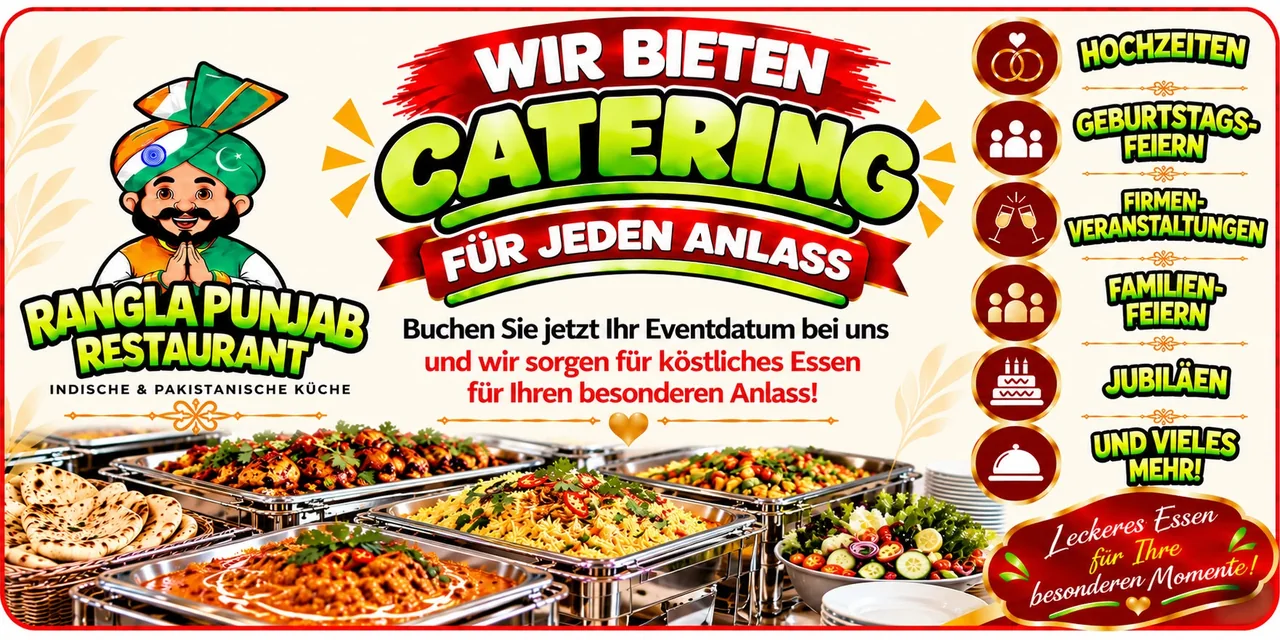
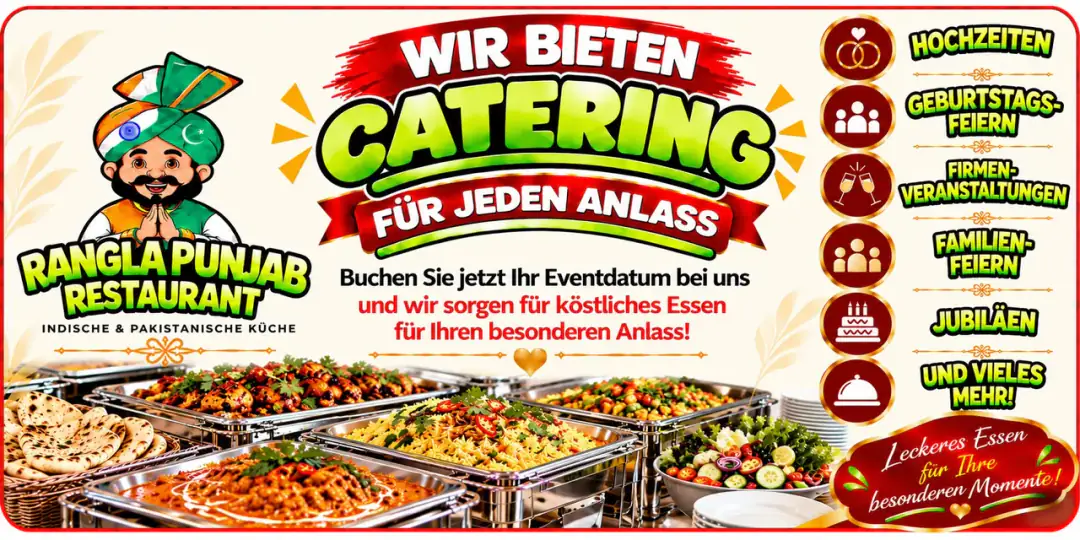
perf: lighter slider posters and small dish thumbnails for the app's lists
The five home-slider posters are recompressed (1080 px, WebP q66):
679 KB → 385 KB, revs bumped so phones fetch the new files. The menu
API now also sends a 320 px square thumbUrl per dish, and the app's
dish rows use it instead of the 640 px photo they never needed.

diff --git a/src/app/api/v1/menu/route.test.ts b/src/app/api/v1/menu/route.test.ts
@@ -249,9 +249,9 @@ describe("GET /api/v1/menu — ?locale", () => {
     const defaults = (await read(fx.slug)).venue.heroSlides;
     expect(defaults.map((s) => s.kind)).toEqual(["banner", "banner", "banner", "banner"]);
     // The points poster was replaced once (rev 2), so it carries `?v=2`.
-    expect(defaults[0]!.url).toMatch(/^https?:\/\/.+\/app-slider\/points-de\.webp\?v=2$/);
-    expect(defaults[2]!.url).toMatch(/\/app-slider\/catering-de\.webp$/);
-    expect(defaults[3]!.url).toMatch(/\/app-slider\/giftcard-de\.webp$/);
+    expect(defaults[0]!.url).toMatch(/^https?:\/\/.+\/app-slider\/points-de\.webp\?v=3$/);
+    expect(defaults[2]!.url).toMatch(/\/app-slider\/catering-de\.webp\?v=2$/);
+    expect(defaults[3]!.url).toMatch(/\/app-slider\/giftcard-de\.webp\?v=2$/);
 
     await asTenant(fx.tenantId, (tx) =>
       tx.venue.updateMany({
@@ -264,7 +264,7 @@ describe("GET /api/v1/menu — ?locale", () => {
     expect(slides).toHaveLength(3);
     expect(slides[0]).toMatchObject({ kind: "dish" });
     expect(slides[0]!.url).toMatch(/^https?:\/\/.+\/img\/t%2Fuploads%2Fb\?w=480$/);
-    expect(slides[1]!.url).toMatch(/\/app-slider\/service-de\.webp$/);
+    expect(slides[1]!.url).toMatch(/\/app-slider\/service-de\.webp\?v=2$/);
     expect(slides[2]).toMatchObject({ kind: "banner" });
     expect(slides[2]!.url).toMatch(/\/img\/t%2Fuploads%2Fp\?w=1280$/);
 

diff --git a/src/lib/hero-slides.ts b/src/lib/hero-slides.ts
@@ -55,11 +55,13 @@ const BANNER_PREFIX = "banner:";
  * picker in the dashboard exists for putting any of them BACK.
  */
 export const BUILT_IN_SLIDES = [
-  { name: "points-de", label: "Points banner (German)", kind: "banner", rev: 2 },
-  { name: "welcome-de", label: "Welcome banner (German)", kind: "banner", rev: 1 },
-  { name: "giftcard-de", label: "Gift-card banner (German)", kind: "banner", rev: 1 },
-  { name: "service-de", label: "Service promise banner (German)", kind: "banner", rev: 1 },
-  { name: "catering-de", label: "Catering banner (German)", kind: "banner", rev: 1 },
+  // Revs bumped 2026-10-02: every poster recompressed (1080 px wide,
+  // WebP q66 — about 45% lighter, 679 KB → 385 KB for the five).
+  { name: "points-de", label: "Points banner (German)", kind: "banner", rev: 3 },
+  { name: "welcome-de", label: "Welcome banner (German)", kind: "banner", rev: 2 },
+  { name: "giftcard-de", label: "Gift-card banner (German)", kind: "banner", rev: 2 },
+  { name: "service-de", label: "Service promise banner (German)", kind: "banner", rev: 2 },
+  { name: "catering-de", label: "Catering banner (German)", kind: "banner", rev: 2 },
 ] as const satisfies readonly {
   name: string;
   label: string;

diff --git a/src/lib/hero-slides.test.ts b/src/lib/hero-slides.test.ts
@@ -54,9 +54,9 @@ describe("heroSlidesOf", () => {
 
 describe("heroSlideUrl", () => {
   it("serves built-ins from /app-slider and uploads through /img", () => {
-    expect(heroSlideUrl("builtin:giftcard-de", 1280)).toBe("/app-slider/giftcard-de.webp");
+    expect(heroSlideUrl("builtin:giftcard-de", 1280)).toBe("/app-slider/giftcard-de.webp?v=2");
     // A replaced poster carries its revision, so cached phones refetch it.
-    expect(heroSlideUrl("builtin:points-de", 1280)).toBe("/app-slider/points-de.webp?v=2");
+    expect(heroSlideUrl("builtin:points-de", 1280)).toBe("/app-slider/points-de.webp?v=3");
     expect(heroSlideUrl("t/uploads/x", 480)).toBe("/img/t%2Fuploads%2Fx?w=480");
     expect(builtInLabel("builtin:giftcard-de")).toBe("Gift-card banner (German)");
     expect(builtInLabel("t/uploads/x")).toBeNull();

diff --git a/mobile/src/api.ts b/mobile/src/api.ts
@@ -32,6 +32,9 @@ export interface ApiItem {
   dietary: string[];
   spice: number;
   photoUrl: string;
+  /** The photo as a small square for list rows. Absent on a server
+   *  that predates it — fall back to `photoUrl`. */
+  thumbUrl?: string;
   variants: ApiVariant[];
 }
 export interface ApiCategory {
@@ -232,7 +235,11 @@ export async function fetchMenu(locale?: string, options?: { fresh?: boolean }):
   const categories = menu.categories.map((c) => ({
     ...c,
     photoUrl: rebaseUrl(c.photoUrl),
-    items: c.items.map((i) => ({ ...i, photoUrl: rebaseUrl(i.photoUrl) })),
+    items: c.items.map((i) => ({
+      ...i,
+      photoUrl: rebaseUrl(i.photoUrl),
+      ...(i.thumbUrl ? { thumbUrl: rebaseUrl(i.thumbUrl) } : {}),
+    })),
   }));
   return {
     ...menu,

diff --git a/src/app/api/v1/menu/route.ts b/src/app/api/v1/menu/route.ts
@@ -239,6 +239,11 @@ export async function GET(req: NextRequest): Promise<NextResponse> {
             dietary: item.dietary,
             spice: item.spice,
             photoUrl: abs(menuImageUrl(item.photoKey, item.id, 640)),
+            // The same photo as a 320 px square, for list rows: the app
+            // draws those at 84–112 pt, where the 640 px file is three
+            // times the bytes for pixels nobody sees. `photoUrl` stays the
+            // large one for the dish sheet (and for apps that predate this).
+            thumbUrl: abs(menuImageUrl(item.photoKey, item.id, 320, { square: true })),
             variants: item.variants.map((v) => ({
               id: v.id,
               name: v.name,

diff --git a/mobile/src/components.tsx b/mobile/src/components.tsx
@@ -688,7 +688,9 @@ export function DishRow({
     >
       <View style={[styles.dishPhotoBox, wide && styles.dishPhotoWide]}>
         <Image
-          source={{ uri: item.photoUrl }}
+          // The small square when the server offers one: a row never
+          // needs the 640 px file the dish sheet opens with.
+          source={{ uri: item.thumbUrl ?? item.photoUrl }}
           style={[styles.dishPhoto, wide && styles.dishPhotoWide]}
           resizeMode="cover"
         />
